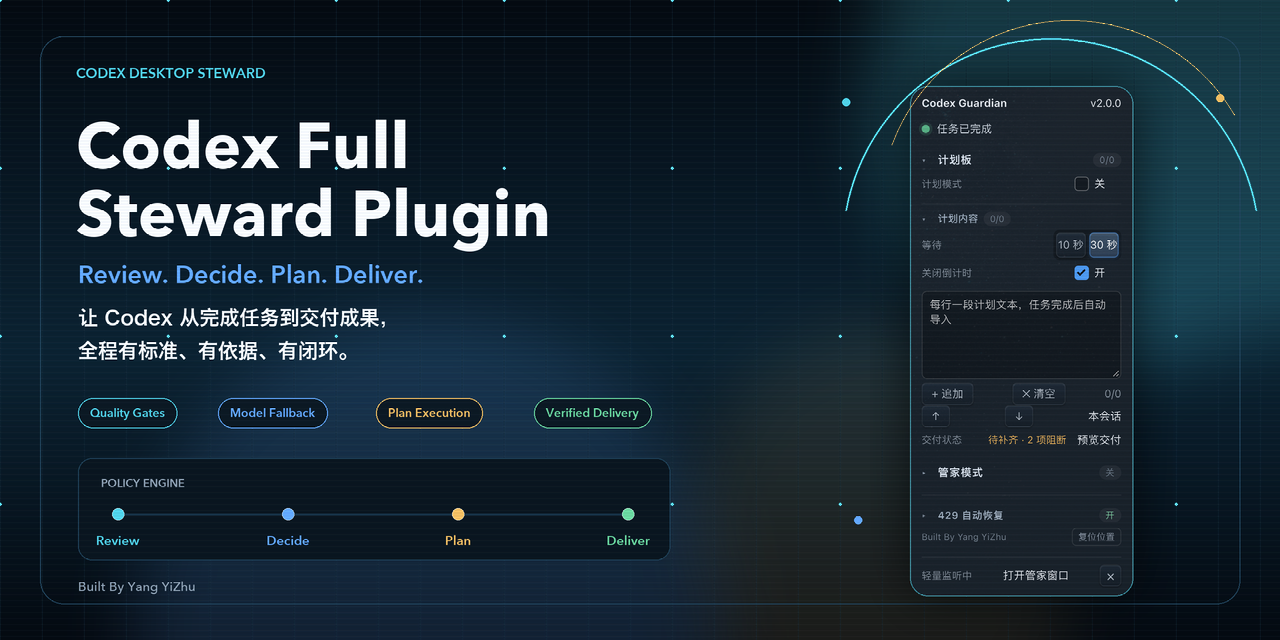
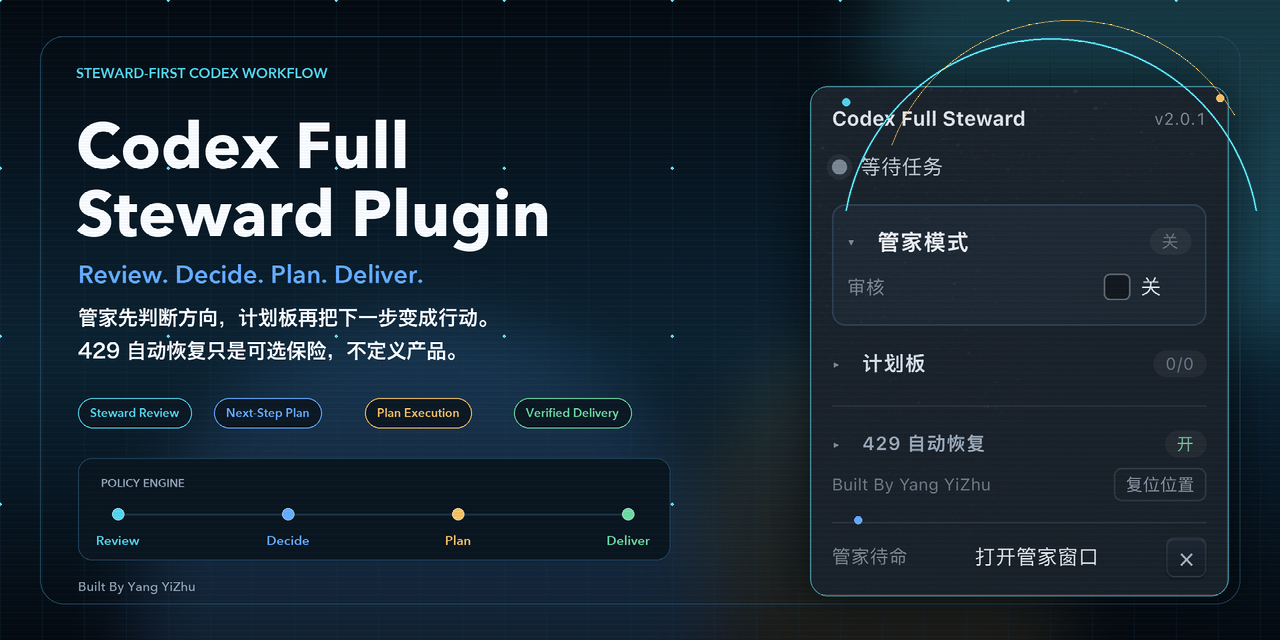
feat: make steward mode the primary product surface

diff --git a/guardian.js b/guardian.js
@@ -1,5 +1,5 @@
 /*
- * Codex++ user script: Codex 429 Guardian
+ * Codex++ user script: Codex Full Steward
  *
  * Watches the current Codex thread for the localized 429/server-overloaded
  * state. After the selected delay it clicks the explicit retry button once.
@@ -9,8 +9,10 @@
 (() => {
   "use strict";
 
-  const VERSION = "2.0.0";
+  const VERSION = "2.0.1";
   const PRODUCT_NAME = "Codex Full Steward Plugin";
+  const PRODUCT_TITLE = "Codex Full Steward";
+  const PANEL_SECTION_ORDER = Object.freeze(["steward", "plan", "r429"]);
   const ATTRIBUTION = "Built By Yang YiZhu";
   // steward 解析重试上限（轮询次数）：超过后把「人工审核」条目写进计划板并复位，避免无限挂起
   const STEWARD_PARSE_MAX_RETRIES = 60;
@@ -870,6 +872,7 @@
       maxConsecBtn: "[data-max-consecutive]",
       background: ".g429-background",
       planEnabled: ".g429-plan-enabled",
+      planSection: '[data-section="plan"]',
       planBody: ".g429-plan-body",
       planText: ".g429-plan-text",
       planAdd: ".g429-plan-add",
@@ -895,6 +898,7 @@
       deliveryExecute: ".g429-delivery-execute",
       deliveryCancel: ".g429-delivery-cancel",
       steward: ".g429-steward",
+      stewardSection: '[data-section="steward"]',
       stewardBody: ".g429-steward-body",
       stewardMode: ".g429-steward-mode",
       stewardTimeout: ".g429-steward-timeout",
@@ -972,6 +976,15 @@
     };
   }
 
+  function panelBranding() {
+    return {
+      title: PRODUCT_TITLE,
+      panelAriaLabel: `${PRODUCT_TITLE} 管家面板`,
+      pillLabel: "管家",
+      pillTitle: "打开管家面板",
+    };
+  }
+
   const core = {
     isLegacyV1,
     prunePlanThreads,
@@ -980,6 +993,10 @@
     isResultComplete,
     computeSessionKey,
     MIN_RESULT_CHARS,
+    PRODUCT_NAME,
+    PRODUCT_TITLE,
+    PANEL_SECTION_ORDER,
+    panelBranding,
     SELECTORS,
     fingerprintThreadId,
     preferredPlanThreadId,
@@ -1145,7 +1162,7 @@
         return;
       }
     } catch (_) {}
-    console.info("[Codex 429 Guardian]", message);
+    console.info("[Codex Full Steward]", message);
   }
 
   function selectedThreadId() {
@@ -1614,8 +1631,18 @@
         gap: 10px;
       }
       [${HOST_ATTR}] .g429-title {
+        min-width: 0;
+        overflow: hidden;
+        text-overflow: ellipsis;
+        white-space: nowrap;
         font-weight: 650;
         letter-spacing: 0;
+      }
+      [${HOST_ATTR}] .g429-version-tag {
+        flex: 0 0 auto;
+        color: #7f8b98;
+        font-size: 10px;
+        font-variant-numeric: tabular-nums;
       }
       [${HOST_ATTR}] .g429-task {
         display: flex;
@@ -1784,6 +1811,17 @@
         border-top: 0;
         padding-top: 0;
         margin-top: 10px;
+      }
+      [${HOST_ATTR}] .g429-group-hero {
+        margin-top: 10px;
+        padding: 8px;
+        border: 1px solid rgba(106,159,216,.20);
+        border-radius: 8px;
+        background: rgba(58,95,138,.10);
+      }
+      [${HOST_ATTR}] .g429-group-hero > .g429-group-head > .g429-group-name {
+        color: #f4f8fc;
+        font-size: 13px;
       }
       [${HOST_ATTR}] .g429-log-list > div {
         padding: 3px 0;
@@ -2235,24 +2273,25 @@
   installStyles();
 
   const host = document.createElement("div");
+  const branding = panelBranding();
   host.setAttribute(HOST_ATTR, VERSION);
   host.dataset.open = "false";
   host.dataset.phase = runtime.phase;
   host.dataset.enabled = String(runtime.settings.enabled);
   host.dataset.taskStatus = runtime.taskStatus;
   host.innerHTML = `
-    <div class="g429-panel" role="dialog" aria-label="429 守护设置">
+    <div class="g429-panel" role="dialog" aria-label="${branding.panelAriaLabel}">
       <div class="g429-head">
-        <span class="g429-title">Codex Guardian</span>
-        <span class="g429-version-tag">v2.0.0</span>
+        <span class="g429-title">${branding.title}</span>
+        <span class="g429-version-tag">v${VERSION}</span>
       </div>
       <div class="g429-task">
         <span class="g429-task-dot"></span>
         <span class="g429-task-text">等待任务</span>
       </div>
 
-      <!-- ===== v1.9.0 主区块：计划板（优先排版） ===== -->
-      <div class="g429-group g429-group-primary">
+      <!-- 计划板：第二主区块；运行时移动到管家模式之后 -->
+      <div class="g429-group g429-group-primary" data-section="plan">
         <button class="g429-group-head" data-collapse="plan" type="button" aria-expanded="true">
           <span class="g429-chev">▾</span><span class="g429-group-name">计划板</span>
           <span class="g429-group-badge" data-plan-badge>0/0</span>
@@ -2316,8 +2355,8 @@
         </div>
       </div>
 
-      <!-- ===== v1.9.0 主区块：管家模式（优先排版） ===== -->
-      <div class="g429-group g429-group-primary">
+      <!-- 管家模式：第一主区块；运行时移动到计划板之前 -->
+      <div class="g429-group g429-group-primary g429-group-hero" data-section="steward">
         <button class="g429-group-head" data-collapse="steward" type="button" aria-expanded="true">
           <span class="g429-chev">▾</span><span class="g429-group-name">管家模式</span>
           <span class="g429-group-badge" data-steward-badge>关</span>
@@ -2453,7 +2492,7 @@
       </div>
 
       <!-- ===== 次要区块：429 自动恢复（默认折叠） ===== -->
-      <div class="g429-group">
+      <div class="g429-group" data-section="r429">
         <button class="g429-group-head" data-collapse="r429" type="button" aria-expanded="false">
           <span class="g429-chev">▸</span><span class="g429-group-name">429 自动恢复</span>
           <span class="g429-group-badge" data-429-badge>开</span>
@@ -2491,7 +2530,7 @@
         <button class="g429-panel-reset-position" type="button" title="恢复默认右下角位置" style="appearance:none;border:1px solid rgba(255,255,255,.1);background:transparent;color:#8b98a8;border-radius:5px;padding:2px 6px;font:inherit;cursor:pointer">复位位置</button>
       </div>
       <div class="g429-row g429-foot">
-        <span class="g429-action">轻量监听中</span>
+        <span class="g429-action">管家待命</span>
         <button class="g429-steward-launcher" type="button" title="打开管家窗口（LLM 直连）">打开管家窗口</button>
         <button class="g429-close" type="button" title="收起" aria-label="收起">×</button>
       </div>
@@ -2533,9 +2572,9 @@
           style="height:34px;padding:0 12px;border-radius:6px;border:1px solid rgba(76,154,255,.5);background:linear-gradient(180deg,#3a5f8a 0%,#2a4a70 100%);color:#eaf3ff;cursor:pointer;font:inherit;font-size:11px;white-space:nowrap;">发送</button>
       </div>
     </div>
-    <div class="g429-pill" role="button" tabindex="0" title="打开 429 守护">
+    <div class="g429-pill" role="button" tabindex="0" title="${branding.pillTitle}">
       <span class="g429-dot"></span>
-      <span class="g429-label">429 守护</span>
+      <span class="g429-label">${branding.pillLabel}</span>
     </div>
     <div class="g429-delivery-modal" role="dialog" aria-label="交付确认" hidden
       style="position:fixed;inset:10% 50% auto auto;transform:translateX(50%);z-index:2147483647;width:min(620px,calc(100vw - 40px));max-height:80vh;overflow:auto;background:#141c26;border:1px solid rgba(255,255,255,.16);border-radius:10px;box-shadow:0 20px 60px rgba(0,0,0,.58);padding:14px;color:#dce6f1;">
@@ -2549,6 +2588,12 @@
     </div>
   `;
   document.body.appendChild(host);
+
+  const planSection = host.querySelector(SELECTORS.ui.planSection);
+  const stewardSection = host.querySelector(SELECTORS.ui.stewardSection);
+  if (planSection && stewardSection) {
+    stewardSection.parentNode.insertBefore(stewardSection, planSection);
+  }
 
   const pill = host.querySelector(SELECTORS.ui.pill);
   const panel = host.querySelector(SELECTORS.ui.panel);
@@ -3859,7 +3904,7 @@
     host.dataset.enabled = String(runtime.settings.enabled);
     host.dataset.taskStatus = runtime.taskStatus;
     taskTextNode.textContent = taskStatusLabel(runtime.taskStatus);
-    pill.title = `${taskStatusLabel(runtime.taskStatus)} · 打开 429 守护`;
+    pill.title = `${taskStatusLabel(runtime.taskStatus)} · ${branding.pillTitle}`;
     enabledInput.checked = runtime.settings.enabled;
     backgroundInput.checked = runtime.settings.background;
     backgroundInput.checked = runtime.settings.background;
@@ -3964,9 +4009,9 @@
     }
 
     if (!runtime.settings.enabled) {
-      statusNode.textContent = "已暂停";
-      labelNode.textContent = "429 已暂停";
-      actionNode.textContent = "不会自动重试";
+      statusNode.textContent = "429 自动恢复已关闭";
+      labelNode.textContent = branding.pillLabel;
+      actionNode.textContent = "管家待命";
       return;
     }
 
@@ -4013,8 +4058,8 @@
     }
 
     statusNode.textContent = "等待 429";
-    labelNode.textContent = taskStatusLabel(runtime.taskStatus);
-    actionNode.textContent = "轻量监听中";
+    labelNode.textContent = branding.pillLabel;
+    actionNode.textContent = "管家待命";
     updateSwitchUI();
   }
 

diff --git a/assets/poster-source/generate_posters.py b/assets/poster-source/generate_posters.py
@@ -146,17 +146,17 @@ def make_horizontal():
     draw = ImageDraw.Draw(image, "RGBA")
 
     rounded(draw, (40, 36, 1240, 604), 24, fill=None, outline="#21445c", width=1)
-    text(draw, (76, 64), "CODEX DESKTOP STEWARD", 14, "demi", COLORS["cyan"])
+    text(draw, (76, 64), "STEWARD-FIRST CODEX WORKFLOW", 14, "demi", COLORS["cyan"])
     text(draw, (76, 104), "Codex Full", 64, "bold")
     text(draw, (76, 172), "Steward Plugin", 64, "bold")
     text(draw, (78, 258), "Review. Decide. Plan. Deliver.", 25, "demi", COLORS["blue"])
-    text(draw, (78, 307), "让 Codex 从完成任务到交付成果，", 20, "regular", COLORS["white"], cjk=True)
-    text(draw, (78, 340), "全程有标准、有依据、有闭环。", 20, "regular", COLORS["white"], cjk=True)
+    text(draw, (78, 307), "管家先判断方向，计划板再把下一步变成行动。", 20, "regular", COLORS["white"], cjk=True)
+    text(draw, (78, 340), "429 自动恢复只是可选保险，不定义产品。", 20, "regular", COLORS["white"], cjk=True)
 
-    pill(draw, 78, 398, "Quality Gates", COLORS["cyan"])
-    pill(draw, 218, 398, "Model Fallback", COLORS["blue"])
-    pill(draw, 376, 398, "Plan Execution", COLORS["amber"])
-    pill(draw, 534, 398, "Verified Delivery", COLORS["green"])
+    pill(draw, 78, 398, "Steward Review", COLORS["cyan"])
+    pill(draw, 214, 398, "Next-Step Plan", COLORS["blue"])
+    pill(draw, 365, 398, "Plan Execution", COLORS["amber"])
+    pill(draw, 514, 398, "Verified Delivery", COLORS["green"])
 
     rounded(draw, (78, 458, 670, 560), 14, fill="#09151f", outline="#1e4057", width=1)
     text(draw, (98, 476), " POLICY ENGINE ", 11, "demi", COLORS["muted"])
@@ -164,7 +164,7 @@ def make_horizontal():
     text(draw, (78, 578), "Built By Yang YiZhu", 13, "medium", COLORS["muted"])
 
     # Right-side product panel and HUD rings
-    paste_screenshot(image, 510, 910, 86, COLORS["cyan"])
+    paste_screenshot(image, 510, 810, 86, COLORS["cyan"])
     draw.arc((px(842), px(38), px(1260), px(456)), 190, 350, fill=rgba(COLORS["cyan"], 120), width=px(2))
     draw.arc((px(880), px(20), px(1260), px(400)), 200, 330, fill=rgba(COLORS["amber"], 90), width=px(1))
     for x, y, color in [(846, 102, COLORS["cyan"]), (1220, 98, COLORS["amber"]), (858, 520, COLORS["blue"])]:
@@ -185,7 +185,7 @@ def make_vertical():
     draw = ImageDraw.Draw(image, "RGBA")
 
     rounded(draw, (48, 48, 1032, 1392), 28, fill=None, outline="#21445c", width=1)
-    text(draw, (82, 82), "FULL STEWARD / V2.0.0", 15, "demi", COLORS["cyan"])
+    text(draw, (82, 82), "FULL STEWARD / V2.0.1", 15, "demi", COLORS["cyan"])
     text(draw, (82, 130), "Codex Full", 84, "bold")
     text(draw, (82, 222), "Steward", 84, "bold")
     text(draw, (82, 314), "Plugin", 84, "bold")
@@ -209,7 +209,7 @@ def make_vertical():
             draw.line((px(122), px(y + 112), px(122), px(y + 150)), fill=rgba(COLORS["line"]), width=px(2))
         y += 150
 
-    paste_screenshot(image, 860, 574, 538, COLORS["cyan"])
+    paste_screenshot(image, 620, 535, 610, COLORS["cyan"])
     draw.arc((px(460), px(430), px(1030), px(1000)), 180, 350, fill=rgba(COLORS["cyan"], 90), width=px(2))
     text(draw, (82, 1200), "Quality Gates · Model Fallback", 18, "demi", COLORS["white"])
     text(draw, (82, 1232), "Plan Execution · Verified Delivery", 18, "demi", COLORS["white"])

diff --git a/README.md b/README.md
@@ -4,9 +4,9 @@
 >
 > A local-first AI task steward for Codex desktop: quality gates, model fallback, plan execution, verified delivery, conservative cleanup, and unattended review.
 
-[![Version](https://img.shields.io/badge/version-2.0.0-58c4dd)](#)
+[![Version](https://img.shields.io/badge/version-2.0.1-58c4dd)](#)
 [![Platform](https://img.shields.io/badge/platform-macOS%20%2B%20Codex-7bd88f)](#)
-[![Tests](https://img.shields.io/badge/tests-138%20passing-7bd88f)](#verification)
+[![Tests](https://img.shields.io/badge/tests-140%20passing-7bd88f)](#verification)
 [![License](https://img.shields.io/badge/license-MIT-f2c94c)](LICENSE)
 
 ![Codex Full Steward Plugin](assets/poster-horizontal.png)
@@ -37,6 +37,12 @@ Task completes
   -> delivery becomes available only after quality and backup gates pass
   -> user confirms twice; backup is verified; only safe runtime files move to Trash
 ```
+
+## Product Priority
+
+1. **管家模式 is the primary product surface.** It reads the completed task, forms a project-level judgment, identifies real gaps, and produces the next executable decision.
+2. **计划板 is the execution surface.** It receives only clean, evidence-grounded instructions and turns them into the next Codex task after the current result is complete.
+3. **429 recovery is an optional resilience layer.** It sits folded at the bottom and never defines the product.
 
 ![Steward panel](assets/guardian-ui.png)
 
@@ -75,9 +81,9 @@ Task completes
 - Two-step confirmation.
 - ZIP, `MANIFEST.json`, `SHA256SUMS`, and delivery README.
 - Project fingerprint check aborts delivery if files change during backup.
-- Conservative cleanup moves only Guardian runtime caches and temporary files to Trash.
+- Conservative cleanup moves only steward runtime caches and temporary files to Trash.
 
-### 429 Recovery
+### Optional 429 Recovery
 
 - Detects localized 429/reconnect states.
 - Waits, clicks the explicit retry control, and verifies task recovery.
@@ -110,7 +116,7 @@ Then open Codex, reload the window, and enable the required switches in the pane
 
 ## Quick Start
 
-1. Open the Guardian panel.
+1. Open the Full Steward panel from the **管家** pill.
 2. Set the project root.
 3. Choose a Provider and model.
 4. Save the API key to macOS Keychain.
@@ -194,7 +200,7 @@ Read the source-backed comparison: [COMPETITIVE-ANALYSIS.md](COMPETITIVE-ANALYSI
 
 ## Verification
 
-- Unit tests: **138/138**
+- Unit tests: **140/140**
 - Real CDP E2E: **10/10**
 - Functional and strategy round: **10/10**
 - Safety and delivery round: **10/10**

diff --git a/INSTALL.md b/INSTALL.md
@@ -44,13 +44,14 @@ $NODE --check scripts/steward-daemon.mjs
 
 ## Configure
 
-1. Open the Guardian panel.
+1. Open the Full Steward panel from the **管家** pill.
 2. Set **项目目录** to the absolute project path.
 3. Select a Provider and enter a model.
 4. Enter an API key and click **保存**.
 5. Confirm the Keychain status becomes configured.
 6. Optionally enable and configure a fallback Provider/model.
-7. Enable **管家模式**.
+7. Enable **管家模式**. It is the primary review and planning surface.
+8. Configure the plan board only after steward mode is working; 429 recovery is optional.
 
 Ollama profiles may run without an API key when using the local OpenAI-compatible endpoint.
 

diff --git a/USAGE.md b/USAGE.md
@@ -2,11 +2,13 @@
 
 ## Start
 
-1. Open the guardian panel from the pill.
+1. Open the Full Steward panel from the **管家** pill.
 2. Set the project root.
 3. Configure the primary model and optional fallback model.
 4. Enable the steward.
 5. Choose a review focus.
+
+Product order: steward review first, plan-board execution second, optional 429 recovery last.
 
 ## Movable Panel
 

diff --git a/SCORECARD.md b/SCORECARD.md
@@ -6,7 +6,7 @@ Research and test date: 2026-10-23
 
 | Area | Result |
 |---|---:|
-| Unit and integration tests | 138/138 |
+| Unit and integration tests | 140/140 |
 | Real CDP E2E | 10/10 |
 | Functional and strategy round | 10/10 |
 | Safety and delivery round | 10/10 |
